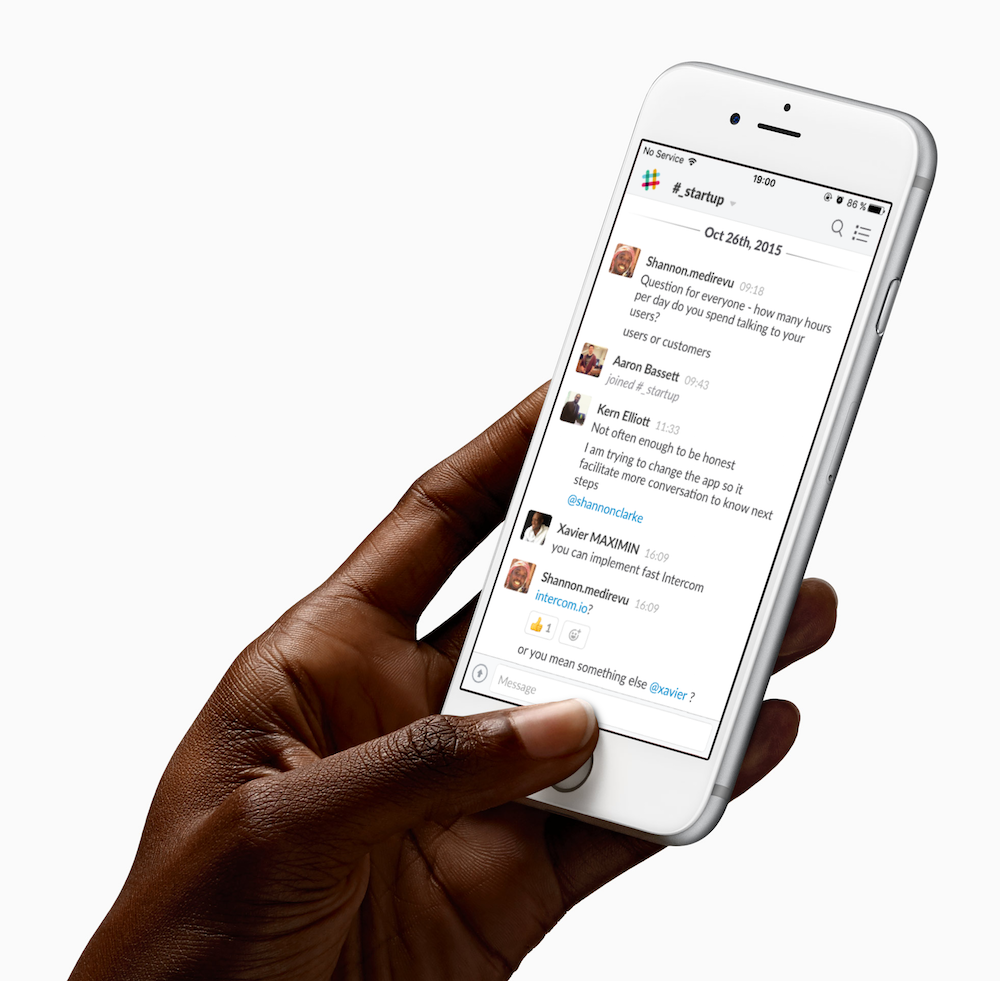
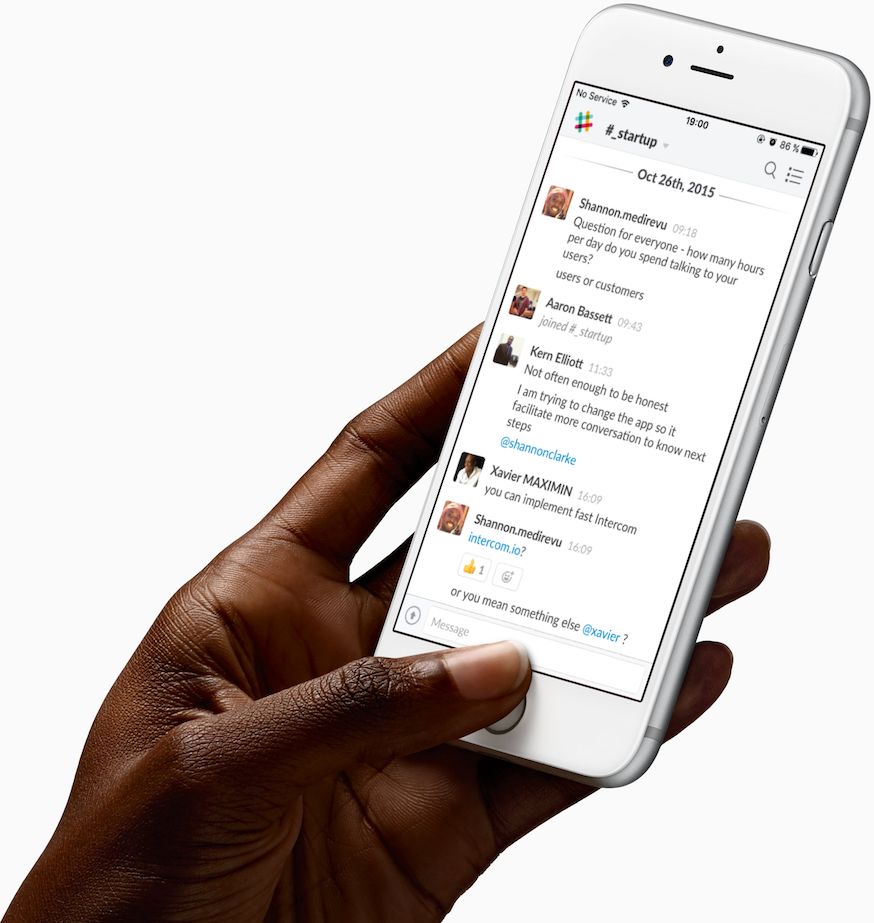
modifs feedback

diff --git a/index.html b/index.html
@@ -72,26 +72,19 @@
             <div class="row">
                     <h2 class="text-center question-hub">What is Caribbean Hub?</h2>
                     <br>
-                <div class="col-sm-6 col-lg-8">
+                <div class="col-sm-6">
                     <p class="lead text-justify">Caribbean Hub is a Slack community dedicated
-to the Caribbean entrepreneurship. <br> The first one actually!</p>
+to the Caribbean entrepreneurship. The first one actually!</p>
 					<p class="lead text-justify">Our goal is to connect entrepreneurs and professionals from the
 tech and startup industry in this area in order to chat, share and learn from each other.</p>
 					<p class="lead text-justify">We strongly believe that in the coming years, the Caribbean will be a hub of innovation, full of potential, where many opportunities can be develop.</p>
 					<p class="lead text-justify">Caribbean Hub is our response to create a community of
 passionate people who want innovate, build new projects with others like-minded, and to facilitate the communication between them.</p>
                		<br>
-               		<a class="about-slack" href="https://slack.com/is" target="_blank"><h4 class="about-slack lead" ><em>Learn more about Slack</em></h4></a>
-
                 </div>
         <!-- Photos Créateurs -->
-                <div class="photos col-xs-12 col-sm-1 col-md-3 col-lg-4">
-<!-- 					<a href="https://twitter.com/Jordaniste" target="_blank"><img id="creatorj" src="img/photo-profil-jordan-round.png" alt="Jordan Chef de Projet Web Martinique"></a><p id="legende" class="text-nowrap"><em>Jordan Vernon, Web Project Manager (Martinique)</em></p>
-					<div>
-					<a href="https://twitter.com/Raphael_B" target="_blank"><img id="creatorr" src="img/photo-profil-raphael-round.png" alt="Raphaël Consultant Réseaux Sociaux Martinique"></a><p id="legende" class="text-nowrap"><em>Raphaël Beaupied, Social Media Consultant (Martinique)</em></p>
-					<br>
-					</div> -->
-                    <img src="img/iphone-slack.png" alt="" class="iphone-slack">
+                <div class="photos col-sm-6">
+                    <img src="img/iphone-slack.png" alt="Caribbean Hub Slack" class="iphone-slack">
                 </div>
         <!-- Photos Créateurs -->
 
@@ -125,7 +118,7 @@ passionate people who want innovate, build new projects with others like-minded,
         <div class="container text-center">
             <div class="row">
                 <div class="col-lg-12">
-					<h4 class="free"><a href="https://twitter.com/Caribbean_Hub" target="_blank">Caribbean Hub</a>, a project created with <i class="fa fa-heart fa-2x"></i> by <a href="https://twitter.com/Jordaniste" target="_blank">Jordan Vernon</a> &amp; <a href="https://twitter.com/Raphael_B" target="_blank">Raphaël Beaupied</a></h4>
+					<h4 class="free"><a href="https://twitter.com/Caribbean_Hub" target="_blank">Caribbean Hub</a>, a project created with <i class="fa fa-heart"></i> by <a href="https://twitter.com/Jordaniste" target="_blank">Jordan Vernon</a> &amp; <a href="https://twitter.com/Raphael_B" target="_blank">Raphaël Beaupied</a></h4>
                 </div>
             </div>
         </div>

diff --git a/css/style.css b/css/style.css
@@ -177,8 +177,8 @@ h6 {
 }
 
 .iphone-slack {
-    width: 450px;
-    /*position: absolute;*/
+    width: 480px;
+
 }
 
 /*FOOTER*/
